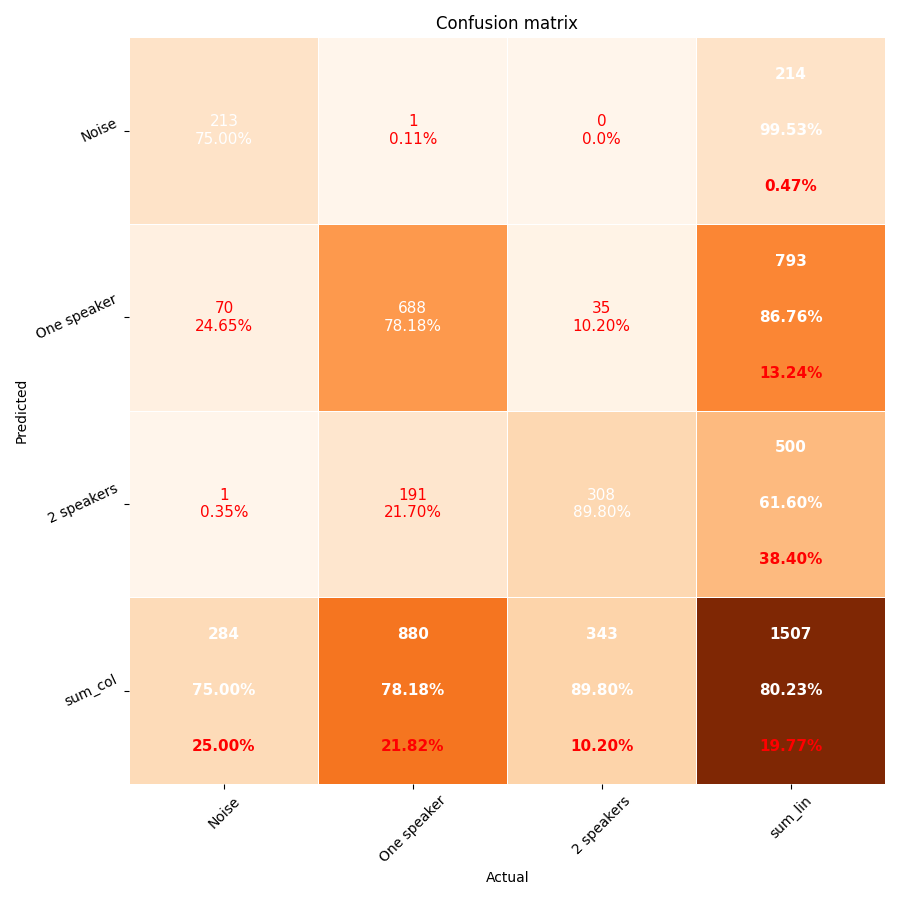
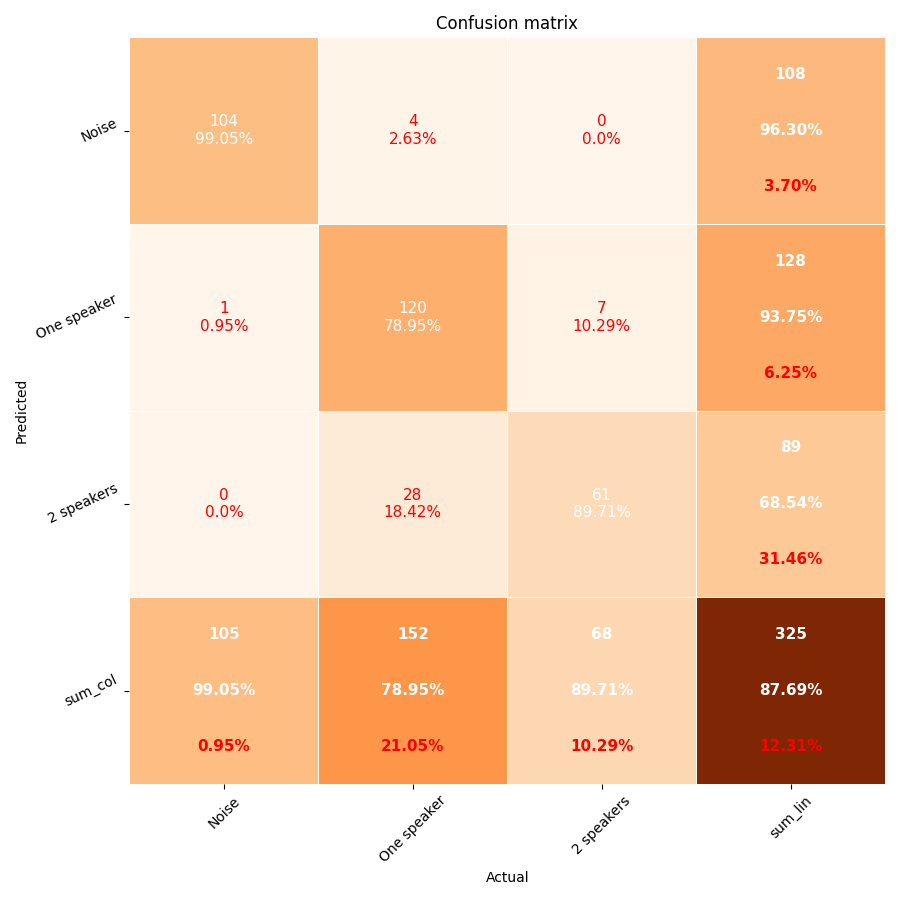
completed test wavs and run on model

diff --git a/createAudio/create_test_wavs.py b/createAudio/create_test_wavs.py
@@ -71,7 +71,7 @@ def create_test_sample_static(
     speech_1_together = load_speech(get_random_speech_file(speaker1_dir), config.fs)
     speech_2_together = load_speech(get_random_speech_file(speaker2_dir), config.fs)
     
-    silence_gap = np.zeros(int(config.fs * 1)) 
+    silence_gap = np.zeros((int(config.fs * 1), config.M)) 
 
     # --- Process first speaker alone ---
     h_first = generate_rir(
@@ -251,11 +251,11 @@ class Config:
     output_path = None          # Will be set at runtime
     
     # Number of samples to generate
-    num_samples = 200
+    num_samples = 3
     start_idx = 1  # Starting index for file naming (e.g., 1 for 'first_1.wav')
 
     # File naming
-    trainORval = 'test'  # 'train' or 'val'
+    trainORval = 'test/static'  # 'train' or 'val'
     dataset_title = trainORval
 
 
@@ -271,6 +271,7 @@ if __name__ == "__main__":
     config : Config
         Configuration object with all parameters
     """
+    config = Config()
     np.random.seed(config.seed)
 
     dataset_title = config.dataset_title
@@ -315,49 +316,44 @@ if __name__ == "__main__":
     for i in range(start_idx, start_idx + num_samples):
         print(f"\rProcessing sample {i}/{start_idx + num_samples - 1}...", end="", flush=True)
         
-        try:
-            # Generate sample
-            result = create_test_sample_static(i, config, male_speakers, female_speakers)
-            
-            # Save audio files
-            sf.write(
-                os.path.join(output_path, f'first_{i}.wav'),
-                result['first_speaker'],
-                config.fs
-            )
-            sf.write(
-                os.path.join(output_path, f'second_{i}.wav'),
-                result['second_speaker'],
-                config.fs
-            )
-            sf.write(
-                os.path.join(output_path, f'together_{i}.wav'),
-                result['receivers'],
-                config.fs
-            )
-            
-            # Save labels as numpy files
-            np.save(
-                os.path.join(output_path, f'label_location_first_{i}.npy'),
-                result['vad_first']
-            )
-            np.save(
-                os.path.join(output_path, f'label_location_second_{i}.npy'),
-                result['vad_second']
-            )
-            
-            # Save metadata
-            np.savez(
-                os.path.join(output_path, f'metadata_{i}.npz'),
-                room_dim=result['room_dim'],
-                T60=result['T60'],
-                SNR_diffuse=result['SNR_diffuse'],
-                mic_positions=result['mic_positions']
-            )
-            
-        except Exception as e:
-            print(f"\n  Error on sample {i}: {e}")
-            continue
+        # Generate sample
+        result = create_test_sample_static(i, config, male_speakers, female_speakers)
+        
+        # Save audio files
+        sf.write(
+            os.path.join(output_path, f'first_{i}.wav'),
+            result['first_speaker'],
+            config.fs
+        )
+        sf.write(
+            os.path.join(output_path, f'second_{i}.wav'),
+            result['second_speaker'],
+            config.fs
+        )
+        sf.write(
+            os.path.join(output_path, f'together_{i}.wav'),
+            result['receivers'],
+            config.fs
+        )
+        
+        # Save labels as numpy files
+        np.save(
+            os.path.join(output_path, f'label_location_first_{i}.npy'),
+            result['vad_first']
+        )
+        np.save(
+            os.path.join(output_path, f'label_location_second_{i}.npy'),
+            result['vad_second']
+        )
+        
+        # Save metadata
+        np.savez(
+            os.path.join(output_path, f'metadata_{i}.npz'),
+            room_dim=result['room_dim'],
+            T60=result['T60'],
+            SNR_diffuse=result['SNR_diffuse'],
+            mic_positions=result['mic_positions']
+        )
     
     print(f"\n\nDatabase generation complete!")
     print(f"Files saved to: {output_path}")

diff --git a/pipeline.py b/pipeline.py
@@ -1,10 +1,6 @@
 from pipeline_ofer_funcs import * # Assumes this is available in your environment
 
 print("-----------------STARTING LCMV PIPELINE-----------------")
-py_folder = os.path.dirname(os.path.realpath(__file__))
-workspace_folder = py_folder
-folder_to_all_data = os.path.join(workspace_folder, 'data')
-folder_to_test_data = os.path.join(folder_to_all_data, 'simulated_audio', 'test')
 
 class SpatialTrackingPipeline:
     def __init__(self, run_idx, config, folder_to_test_data, n_mics=4, verbose=1):
@@ -329,12 +325,18 @@ class SpatialTrackingPipeline:
 # ==========================================
 # CONFIGURATION
 # ==========================================
+
+py_folder = os.path.dirname(os.path.realpath(__file__))
+workspace_folder = py_folder
+folder_to_all_data = os.path.join(workspace_folder, 'data')
+folder_to_test_data = os.path.join(folder_to_all_data, 'simulated_audio', 'test', 'static')
+
 models_folder = os.path.join(workspace_folder, 'models')
 
 pipeline_config = {
     # --- Models Config ---
-    'csd_path': os.path.join(models_folder, 'model3_GEVD_30_3.h5'),
-    'doa_path': os.path.join(models_folder, 'model18_GEVD_30_3.h5'),
+    'csd_path': os.path.join(models_folder, 'model_speaker_GEVD_19_05.h5'),
+    'doa_path': os.path.join(models_folder, 'model_angle_GEVD_19_05.h5'),
 
     # --- STFT Config ---
     'n_fft': 2048,

diff --git a/pipeline_beamformer.py b/pipeline_beamformer.py
@@ -587,7 +587,7 @@ if __name__ == "__main__":
     py_folder = os.path.dirname(os.path.realpath(__file__))
     workspace_folder = py_folder
     folder_to_all_data = os.path.join(workspace_folder, 'data')
-    folder_to_test_data = os.path.join(folder_to_all_data, 'simulated_audio', 'test')
+    folder_to_test_data = os.path.join(folder_to_all_data, 'simulated_audio', 'test', 'static')
 
     # Define where the tracking pipeline saved its labels, and where we will save the separated audio
     folder_to_results = os.path.join(workspace_folder, 'plots')